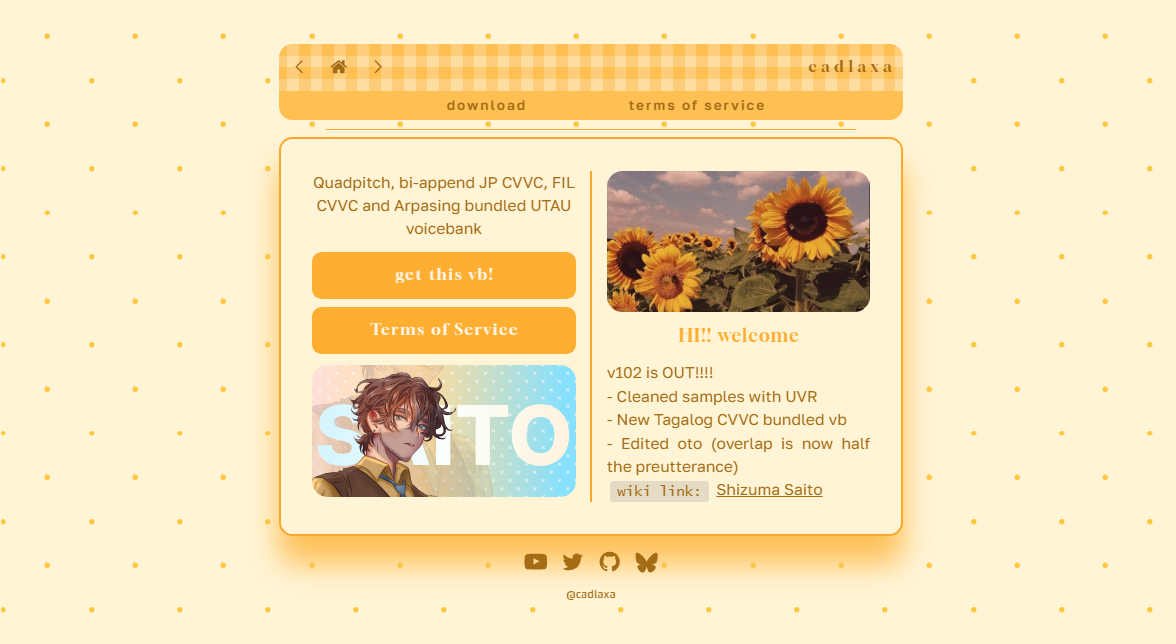
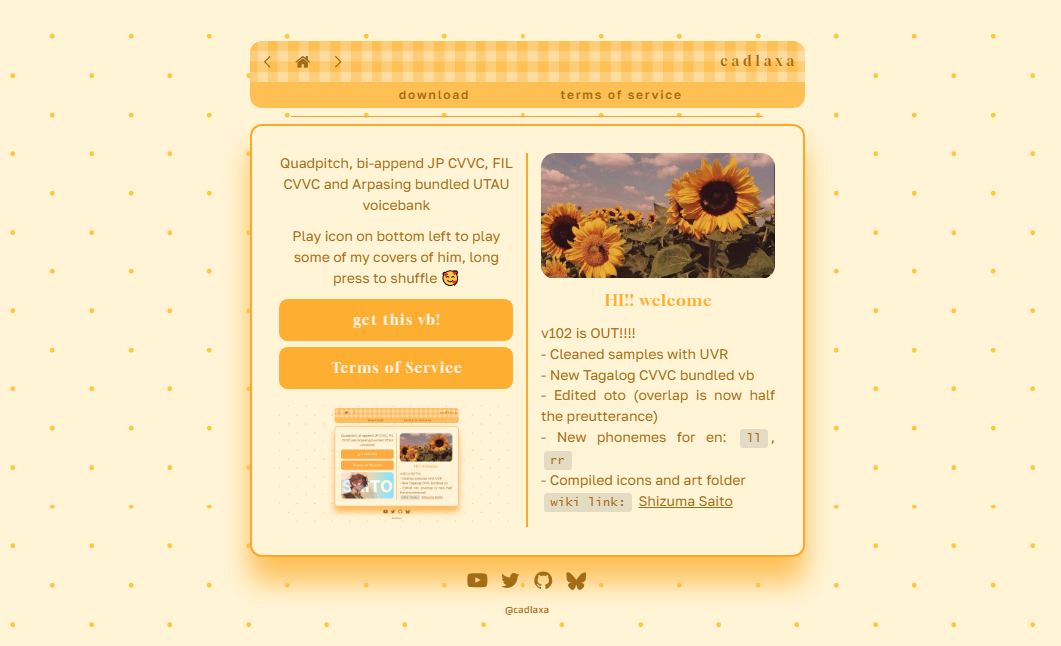
fixed thumbnail preview

Changed region(s): [[0.2177, 0.0621, 0.7776, 0.9627]]

diff --git a/index.html b/index.html
@@ -11,7 +11,7 @@
     <meta property="og:title" content="Shizuma Saito (靜間彩冬)" />
     <meta property="og:type" content="website" />
     <meta property="og:description" content="Hosting sites for voicebanks and other resources" />
-    <meta property="og:image" content="resources/cover.png"/>
+    <meta property="og:image" content="https://drive.google.com/file/d/1BnvS1pZxiTvYIcGs4bgVhfSfhrhY6Jzz/view?usp=sharing"/>
     <meta property="og:image:type" content="image/jpeg" />
     <meta property="og:image:width" content="1280" />
     <meta property="og:image:height" content="800" />
@@ -5020,7 +5020,7 @@
                                         <li><a href="#tos" class="button n02" role="button">Terms of Service</a></li>
                                     </ul>
                                     <div id="image03" class="image" data-position="center"><a href="#saito"
-                                            class="frame"><img src="resources/cover.png" alt="" /></a>
+                                            class="frame"><img src="resources/banner.png" alt="" /></a>
                                     </div>
                                 </div>
                                 <div>
